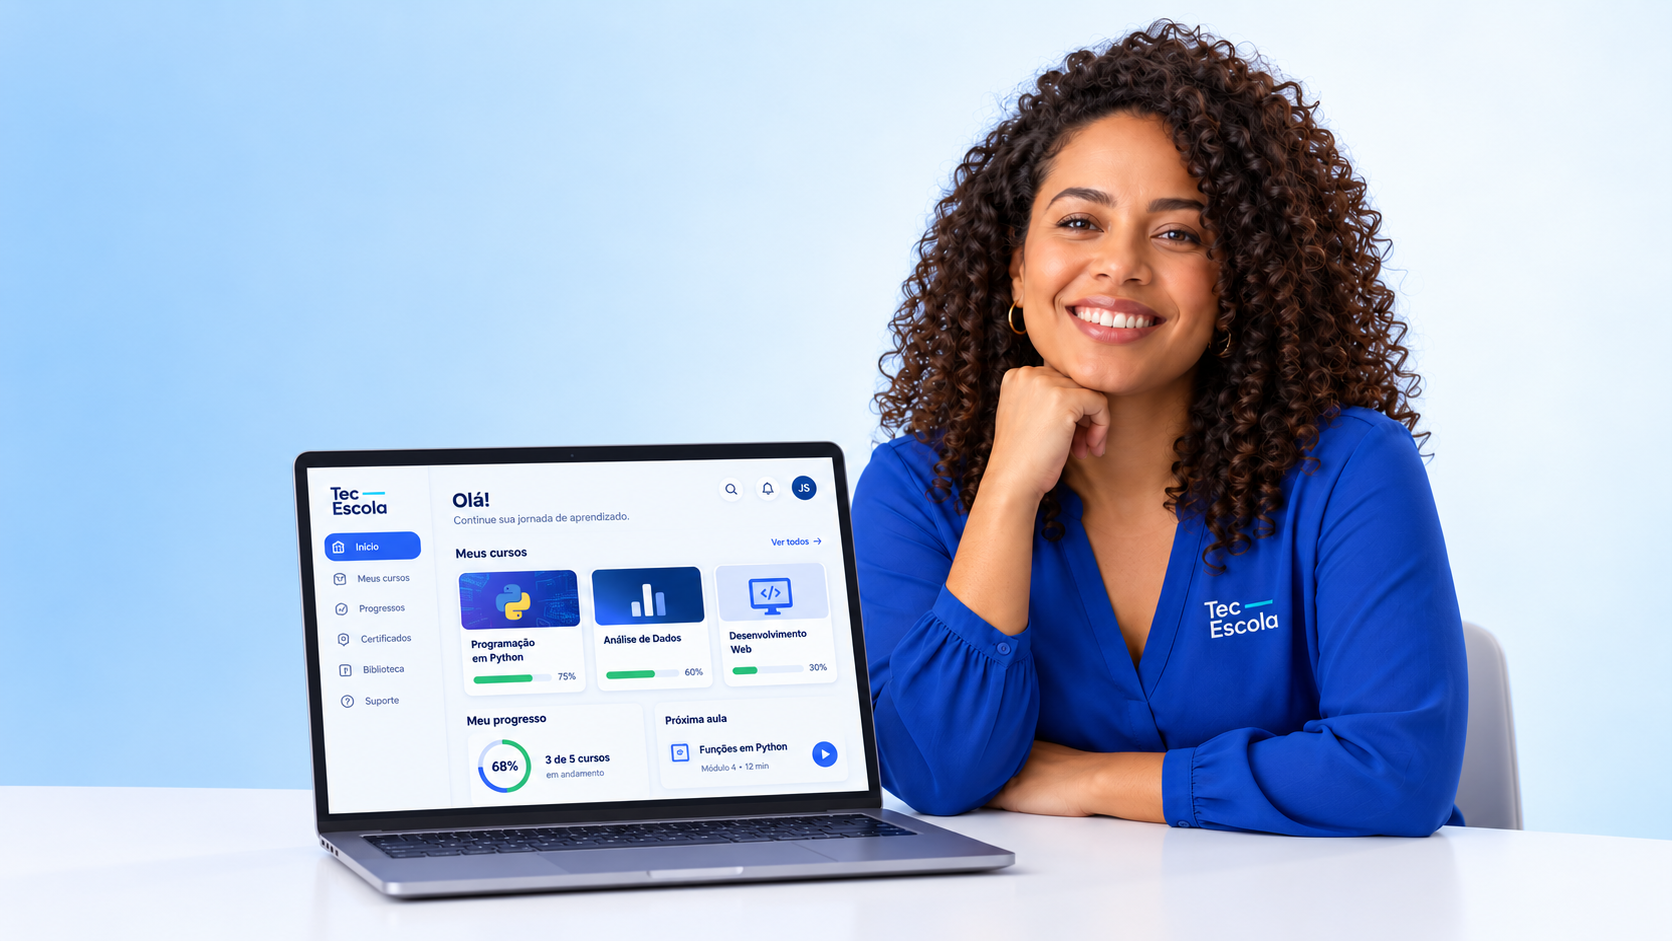
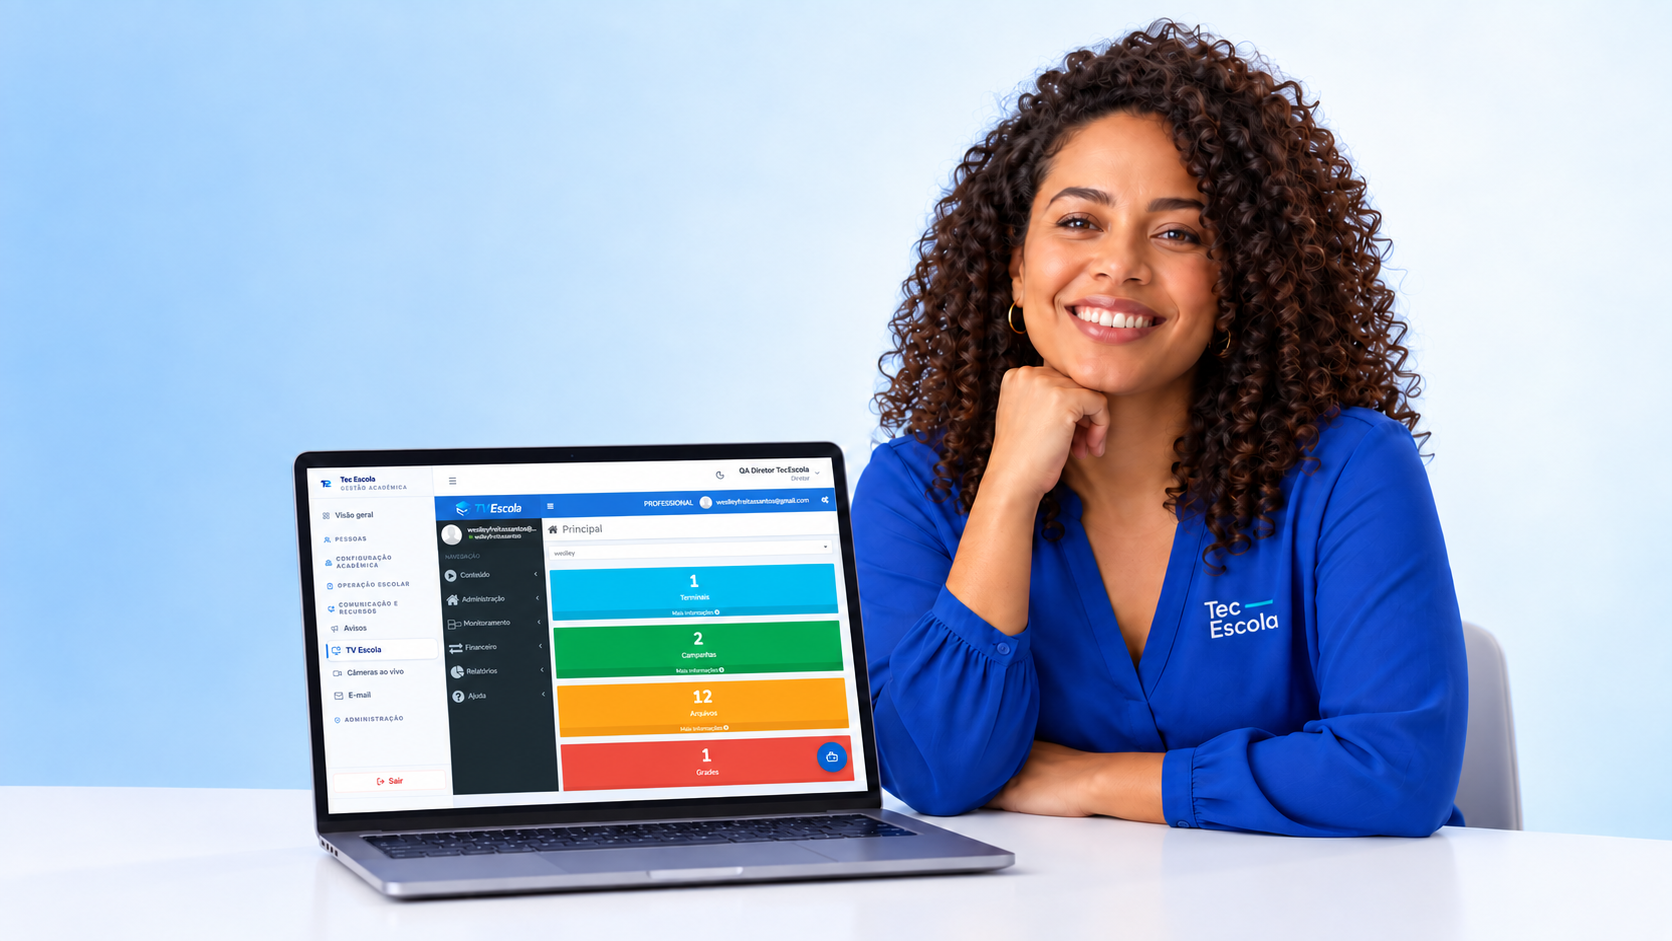
feat: update hero laptop dashboard

diff --git a/index.html b/index.html
@@ -59,7 +59,7 @@
             <div class="person-backdrop"></div>
             <div class="hero-slides" aria-live="polite">
               <figure class="hero-slide is-active" data-hero-slide="0">
-                <img src="./assets/educadora-uniforme-horizontal.png" alt="Educadora sorrindo com um notebook e uniforme Tec Escola" />
+                <img src="./assets/educadora-uniforme-horizontal.png?v=tv-escola-dashboard" alt="Educadora sorrindo com o painel TV Escola no notebook e uniforme Tec Escola" />
               </figure>
               <figure class="hero-slide" data-hero-slide="1">
                 <img src="./assets/educadora-apontando-uniforme-horizontal.png" alt="Educadora apontando para o painel acadêmico com uniforme Tec Escola" />
